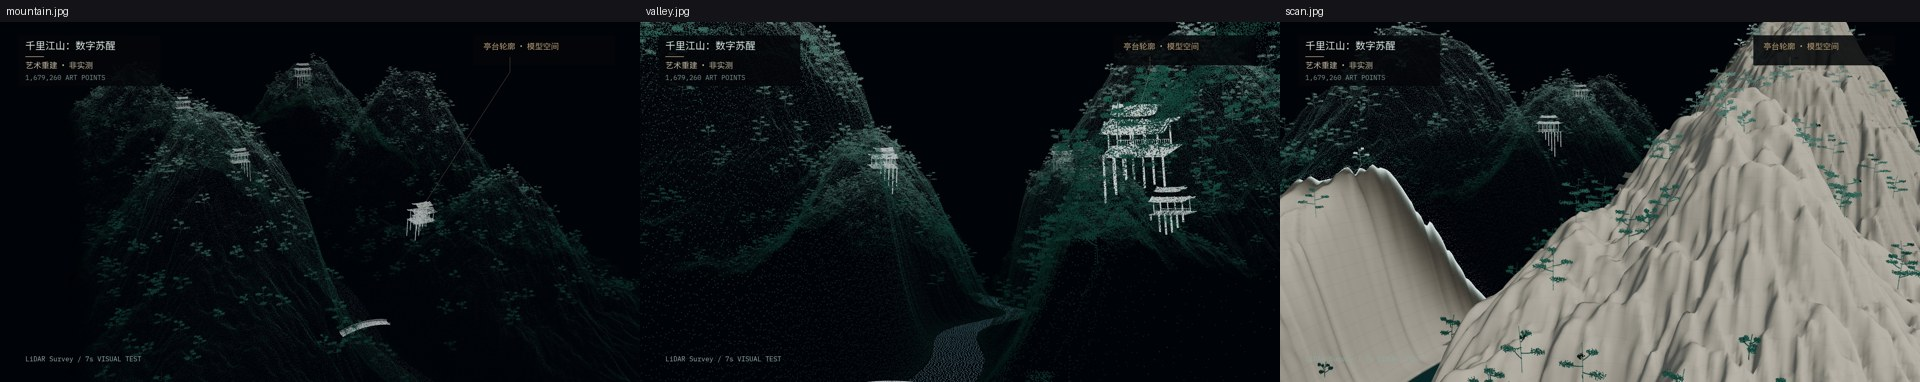
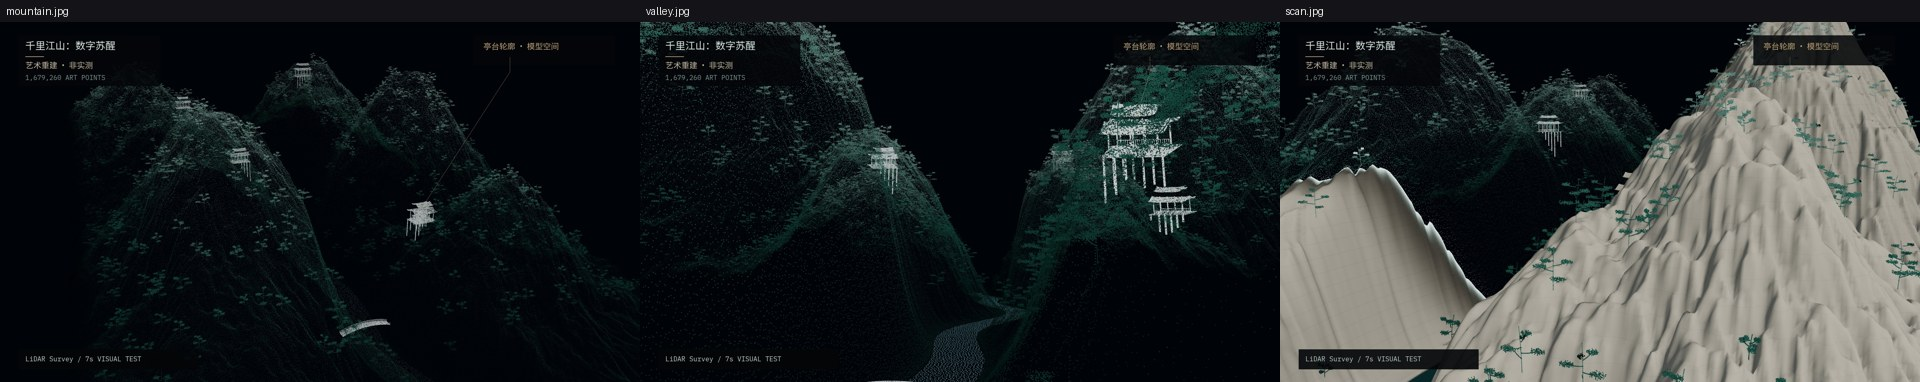
fix(film): keep review labels readable and light double-sided roofs correctly

Changed region(s): [[0.6562, 0.8927, 0.7812, 0.9791]]

diff --git a/films/qianli-lidar/src/film.js b/films/qianli-lidar/src/film.js
@@ -27,7 +27,7 @@ gl_Position=projectionMatrix*mv;gl_PointSize=clamp(.24*proj/max(dist,1.),px,3.2*
 const pointFS=`varying vec3 col;varying float vis;void main(){float r=length(gl_PointCoord-.5);if(r>.5)discard;float edge=1.-smoothstep(.35,.5,r);gl_FragColor=vec4(col*(1.-.17*r)*sqrt(edge)*vis,1.);}`;
 const surfaceVS=`attribute vec3 nrm;attribute float ao;varying vec3 p,n;varying float occ,dist;void main(){p=position;n=nrm;occ=ao;vec4 mv=modelViewMatrix*vec4(position,1.);dist=-mv.z;gl_Position=projectionMatrix*mv;}`;
 const surfaceFS=`precision highp float;uniform float front;uniform vec3 sun,bg,scan;varying vec3 p,n;varying float occ,dist;${plane}
-void main(){float d=front-plane(p);if(d<0.)discard;float ext=min(min(p.x+240.,240.-p.x),min(p.z+80.,720.-p.z));if(ext<3.)discard;vec3 nn=normalize(n);float light=max(dot(nn,sun),0.);vec3 clay=vec3(.40,.37,.31),shade=vec3(.047,.065,.070);vec3 c=clay*(.19+.96*light)*(.42+.58*occ)+shade*(1.-light)*.55;
+void main(){float d=front-plane(p);if(d<0.)discard;float ext=min(min(p.x+240.,240.-p.x),min(p.z+80.,720.-p.z));if(ext<3.)discard;vec3 nn=normalize(n);if(!gl_FrontFacing)nn=-nn;float light=max(dot(nn,sun),0.);vec3 clay=vec3(.40,.37,.31),shade=vec3(.047,.065,.070);vec3 c=clay*(.19+.96*light)*(.42+.58*occ)+shade*(1.-light)*.55;
 float cy=p.y/6.,cw=max(fwidth(cy),.001);float ct=1.-smoothstep(cw*.5,cw*1.25,min(fract(cy),1.-fract(cy)));c*=1.-ct*.12;
 float river=18.*sin(p.z*.012)+10.*sin(p.z*.029+.4);float water=1.-smoothstep(9.5,11.2,abs(p.x-river));c=mix(c,vec3(.014,.045,.048),water);
 float fill=smoothstep(0.,18.,d);c=mix(c*.20,c,fill);c+=scan*1.7*exp(-d/.5);float fog=exp(-max(dist-70.,0.)/720.);c=mix(bg,c,fog*smoothstep(3.,26.,ext));gl_FragColor=vec4(c,1.);}`;
@@ -59,7 +59,7 @@ ctx.fillStyle='rgba(3,6,8,.86)';ctx.fillRect(1420,40,425,90);
 text('landmark','亭台轮廓 · 模型空间',1450,82,24,'Noto','#b99e73');
 const lp=new THREE.Vector3(...manifest.landmarks[0]);lp.y+=13;lp.project(camera);const ax=(lp.x*.5+.5)*1920,ay=(-lp.y*.5+.5)*1080;
 if(lp.z<1&&ax>0&&ax<1920&&ay>150&&ay<970){ctx.strokeStyle='rgba(185,158,115,.64)';ctx.lineWidth=1;ctx.beginPath();ctx.moveTo(1530,105);ctx.lineTo(1530,150);ctx.lineTo(ax,ay);ctx.stroke();ctx.beginPath();ctx.arc(ax,ay,4,0,Math.PI*2);ctx.stroke();}
-text('review','LiDAR Survey / 7s VISUAL TEST',76,1018,20,'Plex','#8eaaa2');ctx.restore();texts=texts.map(b=>({...b,x0:b.x0*W/1920,x1:b.x1*W/1920,y0:b.y0*H/1080,y1:b.y1*H/1080}));}
+ctx.fillStyle='rgba(3,6,8,.90)';ctx.fillRect(56,982,540,60);text('review','LiDAR Survey / 7s VISUAL TEST',76,1018,20,'Plex','#b7cbc3');ctx.restore();texts=texts.map(b=>({...b,x0:b.x0*W/1920,x1:b.x1*W/1920,y0:b.y0*H/1080,y1:b.y1*H/1080}));}
 function shotState(t){const s=stateAt(t);if(shot==='mountain')return {...s,camera:[200,250,-235,0,70,225,38],front:-1000,cut:30};if(shot==='valley')return {...s,camera:[-9,37,-18,9,71,195,45],front:-1000,cut:30};if(shot==='scan')return {...s,camera:[-123,117,-86,-6,64,202,42],front:105,cut:16};return s}
 const frustum=new THREE.Frustum(),vp=new THREE.Matrix4();
 window.DUR=T.duration;window.EV=T.events;window.TEXTS=()=>texts;window.DATA_KIND='artistic_reconstruction_not_survey';window.PRODUCTION_AUTHORIZED=false;

diff --git a/films/qianli-lidar/qa/ART-REVIEW.md b/films/qianli-lidar/qa/ART-REVIEW.md
@@ -8,6 +8,7 @@
 - 第二轮扫描帧揭示地形大轮廓过于光滑。增加真实几何上的D8树枝状汇流切蚀，重新采样；没有用更多点数冒充形体改善。
 - 实体转换同步加入柱梁与桥栏的对应曲面，避免扫描后只剩悬浮屋顶。水道使用同址水平面，点位保持不动。
 - 完整解码片段的首轮审查发现凝结后近崖占满画面，已重设后半段连续抬升/后拉并控制扫描范围，使实体与远景点云同时可读；不能只依赖替代取景的漂亮关键帧。
+- 下载后的1080p全段复查又修正两项：底部技术标识增加固定暗底，避免在实体表面上失去对比；双面屋檐在shader中按实际朝向翻转法线，避免屋顶背面法线导致过暗。
 - 三张最终关键帧由官方still工具直接以1920×1080导出，画内可见“艺术重建 · 非实测”。
 
 ## 要检查的全片证据
